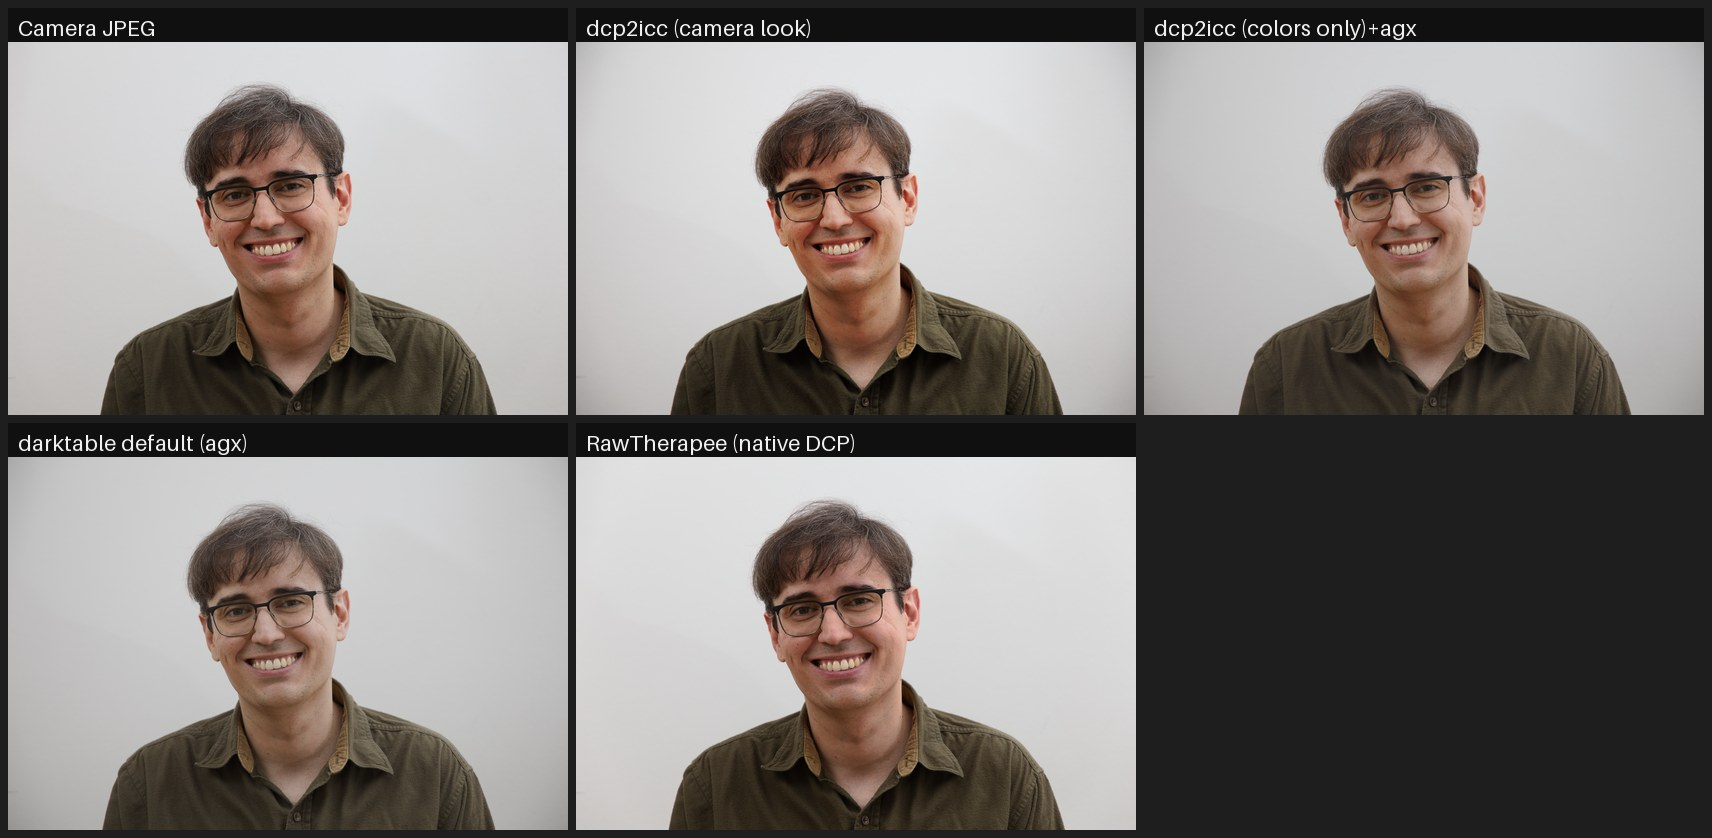
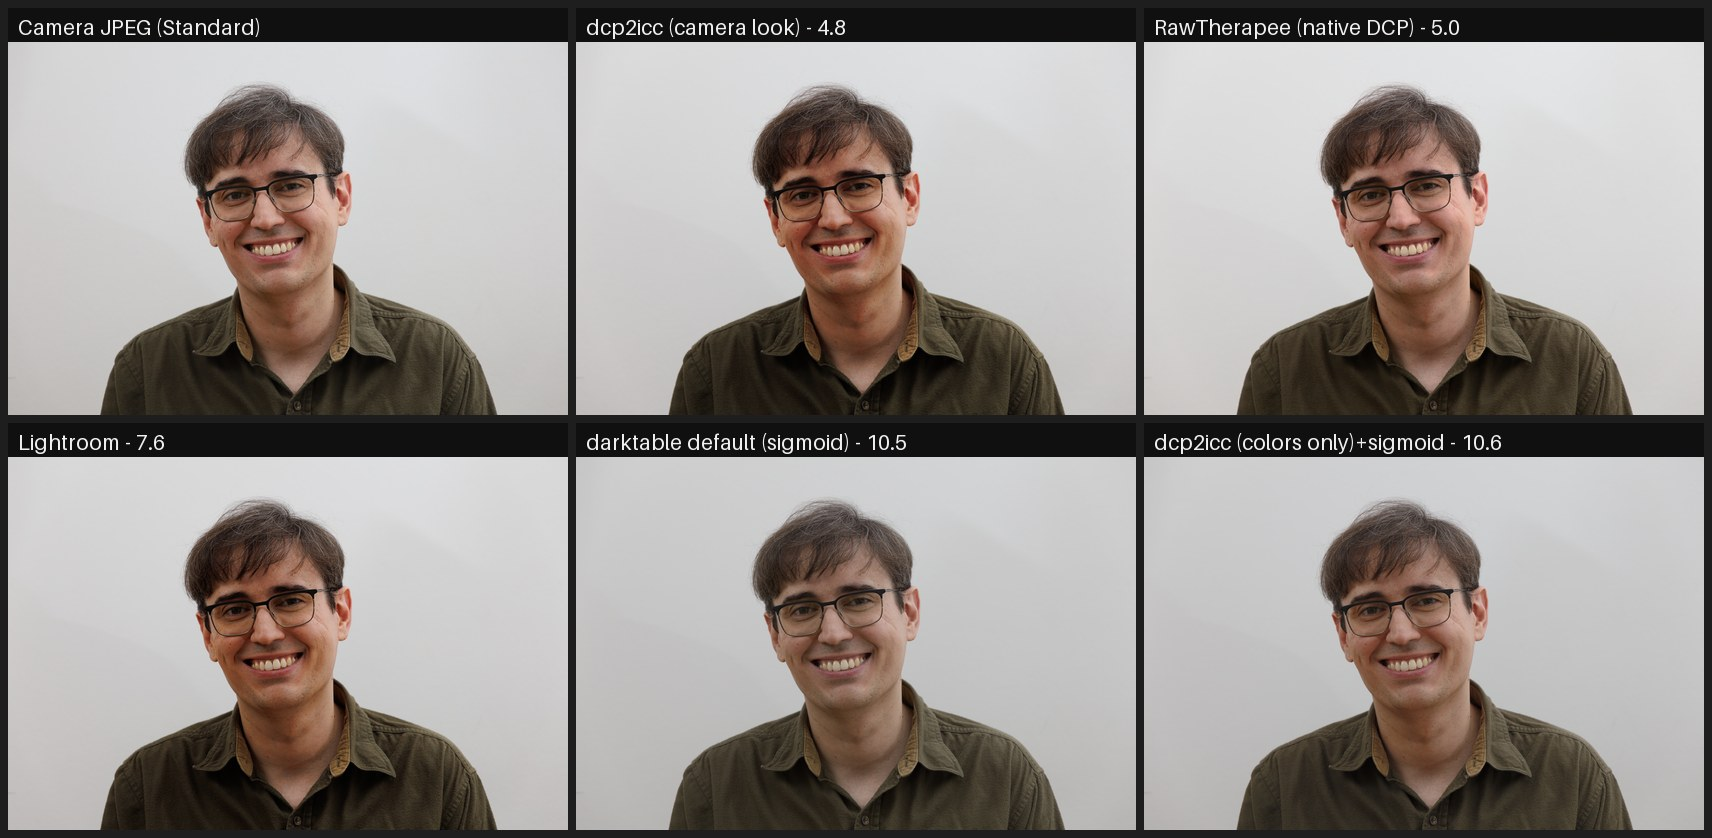
README: benchmark against Lightroom as the fair reference
dcp2icc converts Adobe's DCP, so the honest ground truth is Adobe's own
rendering (Lightroom/Camera Raw) of the same raw — the camera JPEG adds
in-camera processing no DCP contains. Lead with the vs-Lightroom
comparison for IMG_9399 (camera look lands at 3.8, closer to Lightroom
than the camera JPEG itself), keep the vs-camera-JPEG table second, and
refresh both montages from the current Docker-reference results.

diff --git a/README.md b/README.md
@@ -28,41 +28,54 @@ darktable (via LittleCMS2) applies as an input color profile.
 
 ## How close does it get?
 
-Test scene: Canon EOS RP raw (`.CR3`), compared against the out-of-camera
-JPEG (Picture Style: Standard). The DCP is Adobe's "Camera Standard" profile
-for the EOS RP, which is Adobe's replication of Canon's own rendering.
+Test scene: Canon EOS RP raw (`.CR3`), DCP: Adobe's "Camera Standard"
+profile for the EOS RP. All numbers are the mean absolute pixel difference
+on the central 80% of the frame (0–255, lower is better; ≲5 is hard to
+tell apart by eye), produced by the reproducible harness in
+[`testing/`](testing/) inside its pinned Docker image.
 
-![full comparison](docs/img/comparison-full.jpg)
+**The fair benchmark is Adobe's own rendering, not the camera JPEG.**
+dcp2icc converts Adobe's DCP, so the ground truth for the conversion is
+what Adobe's pipeline (Lightroom / Camera Raw) produces from the same raw
+with that DCP. The camera JPEG adds in-camera processing (auto lighting
+optimization, per-image tweaks, sharpening) that no DCP contains — not
+even Lightroom matches it exactly. Against a Lightroom export:
 
-The image and the metrics below are generated by the reproducible harness in
-[`testing/`](testing/) — point it at any raw + out-of-camera JPEG pair to
-test your own camera.
+![vs Lightroom](docs/img/comparison-lightroom.jpg)
 
-Mean absolute pixel difference against the camera JPEG (0–255 scale, lower is
-better):
-
-| Rendering | mean diff |
+| Rendering | mean diff vs Lightroom |
 |---|---|
-| RawTherapee default (native DCP + per-image auto-matched curve) | 6.2 |
-| **darktable + dcp2icc "(camera look)"** | **8.3** |
-| darktable + dcp2icc "(colors only)" + agx tone mapper | 12.6 |
-| darktable factory default (agx tone mapper, standard matrix) | 12.8 |
+| **darktable + dcp2icc "(camera look)"** | **3.8** |
+| Camera JPEG (Picture Style Standard) | 7.6 |
+| darktable + dcp2icc "(colors only)" + sigmoid | 10.0 |
+| darktable factory default (sigmoid, standard matrix) | 10.3 |
+| RawTherapee default (native DCP) | 11.4 |
 
-RawTherapee reads the DCP natively and additionally fits a tone curve to
-each image and applies lens/vignette corrections — things a static ICC
-cannot do — so it is the reference ceiling. `dcp2icc (camera look)` is the
-closest you can get **inside darktable**.
+`dcp2icc (camera look)` lands **closer to Lightroom than the camera's own
+JPEG does** — the DCP pipeline (color tables + tone curve) survives the
+conversion to ICC essentially intact. Even RawTherapee, which reads the
+DCP natively but applies its own per-image curve, is further away.
 
-The two dcp2icc rows are the two profile variants: *(camera look)* carries the
-camera's tone curve inside the profile and is the faithful JPEG match;
+Against the out-of-camera JPEG the ranking still holds up:
+
+![vs camera JPEG](docs/img/comparison-full.jpg)
+
+| Rendering | mean diff vs camera JPEG |
+|---|---|
+| **darktable + dcp2icc "(camera look)"** | **4.8** |
+| RawTherapee default (native DCP + per-image auto-matched curve) | 5.0 |
+| Lightroom | 7.6 |
+| darktable factory default (sigmoid, standard matrix) | 10.5 |
+| darktable + dcp2icc "(colors only)" + sigmoid | 10.6 |
+
+The two dcp2icc rows are the two profile variants: *(camera look)* carries
+the DCP tone curve inside the profile and is the faithful match;
 *(colors only)* keeps darktable's own scene-referred tone mapper (sigmoid /
-filmic / agx — agx shown here) on top of the camera's color tables, trading
-some JPEG fidelity for darktable's full highlight handling. Even in that mode
-the colors are right — the remaining difference is tone curve shape.
-
-The remaining difference vs the JPEG is mostly sharpening/noise reduction and
-lens vignetting correction, which the camera applies and a color profile
-cannot (enable darktable's *lens correction* module for the vignette).
+filmic / agx) on top of the DCP color tables, trading some fidelity for
+darktable's full highlight handling. Even in that mode the colors are
+right — the remaining difference is tone curve shape, and raising the
+sigmoid contrast to ≈1.65–1.8 closes most of it (see the parameter sweep
+in [`testing/`](testing/)).
 
 ## Install
 
